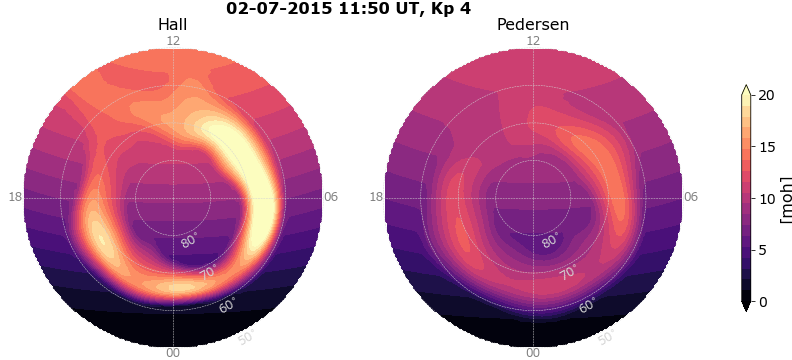
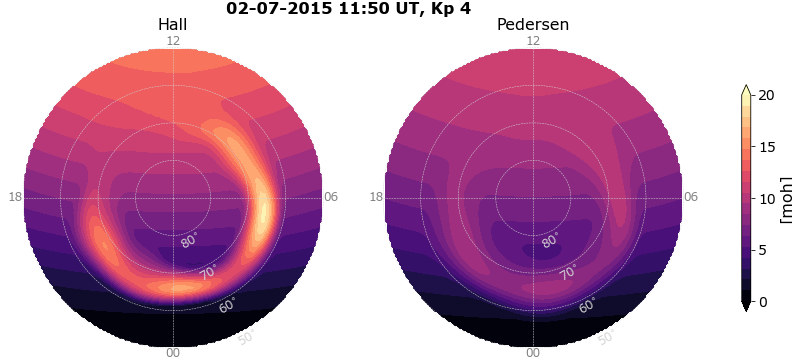
changed from linear addition of conductances to vector sums

Changed region(s): [[0.0909, 0.2139, 0.3636, 0.8556], [0.5152, 0.275, 0.8182, 0.8861]]

diff --git a/utils/conductance.py b/utils/conductance.py
@@ -76,19 +76,18 @@ def hardy_EUV(lon, lat, kp, time, hall_or_pedersen ='hp', starlight = 0, F107 = 
         hop = 'hp'
     
     if len(hop) > 1:
-        EUVh, EUVp = EUV_conductance(sza, F107, hop, calibration = calibration)
+        EUVh, EUVp = EUV_conductance(sza, F107, hop, calibration = calibration) # EUV
+        hc_hall, hc_pedersen = hardy(mlat, mlt, kp, hop)                        # auroral
     else:
-        EUV = EUV_conductance(sza, F107, hop, calibration = calibration)
+        EUV = EUV_conductance(sza, F107, hop, calibration = calibration)  # EUV
+        hc  = hardy(mlat, mlt, kp, hop)                                   # auroral
     
-    # auroral conductances
-    hc_hall, hc_pedersen = hardy(mlat, mlt, kp)
-
     if hop == 'h':
-        return (hc_hall + EUV + starlight).reshape(shape)
+        return (np.sqrt(hc**2 + EUV**2 + starlight**2)).reshape(shape)
     elif hop == 'p':
-        return (hc_pedersen + EUV + starlight).reshape(shape)
+        return (np.sqrt(hc**2 + EUV**2 + starlight**2)).reshape(shape)
     else:
-        return (hc_hall + EUVh + starlight).reshape(shape), (hc_pedersen + EUVp + starlight).reshape(shape)
+        return (np.sqrt(hc_hall**2 + EUVh**2 + starlight**2)).reshape(shape), (np.sqrt(hc_pedersen**2 + EUVp**2 + starlight**2)).reshape(shape)
 
 
 
